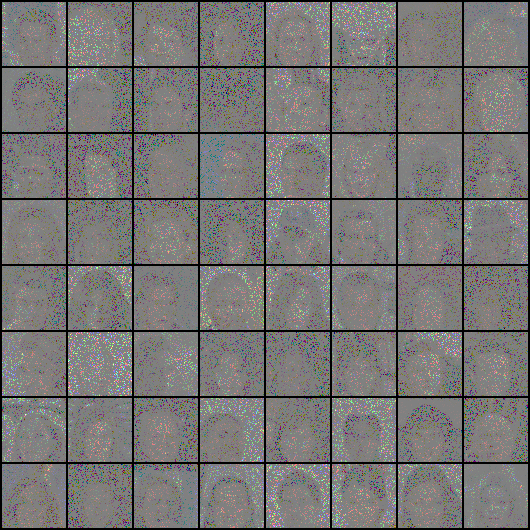
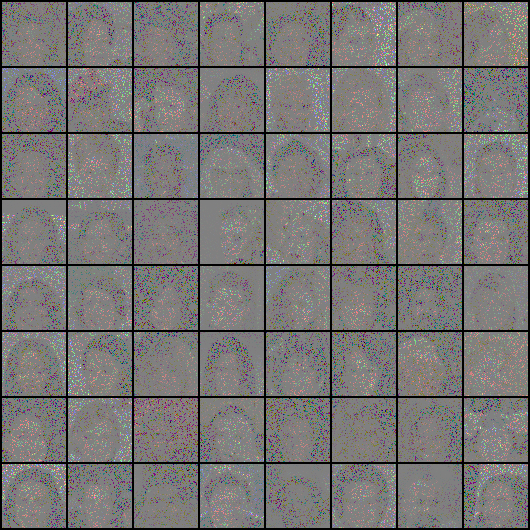
ok

diff --git a/train.py b/train.py
@@ -7,74 +7,87 @@ from tqdm import tqdm
 from dataset import *
 
 
-def train(netG, netD, noise_module, optimizerD, optimizerG, dataloader, device, file, epoch):
+def train(netG, netD, noise_module, optimizerD, optimizerG, dataloader, device, file, epoch, alpha):
     print(file)
     save_net(file, netG, netD)
     sauvegarde_init(file)
     netG.train()
     netD.train()
     cpt = 0
-    dTrue, dFalse, mse, ref = [], [], [], []
+    dTrue, dFalse, mse = [0], [0], [0]
     turn = True
-
+    alpha = 0
     bar_epoch = tqdm(range(epoch))
     bar_data = tqdm(range(len(dataloader)))
     for _ in bar_epoch:
-        for i, (x, xb) in zip(bar_data, dataloader):
+        for i, (ref, y) in zip(bar_data, dataloader):
             if turn:
-                save_xb = xb
+                save_xb = y
                 print_img(save_xb, 'image_de_base_bruit', file)
-                print_img(x, 'image_de_base_sans_bruit', file)
+                print_img(ref, 'image_de_base_sans_bruit', file)
                 turn = False
                 continue
 
+            real_label = torch.FloatTensor(ref.size(0)).fill_(.9).to(device)
+            fake_label = torch.FloatTensor(ref.size(0)).fill_(.1).to(device)
 
-            real_label = torch.FloatTensor(x.size(0)).fill_(.9).to(device)
-            fake_label = torch.FloatTensor(x.size(0)).fill_(.1).to(device)
+            ref = ref.to(device)
+            y = y.to(device)
 
-            xref = noise_module(x).to(device)
-            x2 = netG(xref).to(device)
-            xb2 = noise_module(x2).to(device)
-            x = x.to(device)
-            xb = xb.to(device)
+            if i % 2 == 0:
+                ################
+                # train D
+                ################
+                optimizerD.zero_grad()
 
-            # train D
-            optimizerD.zero_grad()
+                # avec de vrais labels
+                outputTrue = netD(y)
+                lossDT = F.binary_cross_entropy_with_logits(outputTrue, real_label)
 
-            # avec de vrais labels
-            outputTrue = netD(xb)
-            lossDT = F.binary_cross_entropy_with_logits(outputTrue, real_label)
+                # avec de faux labels
+                x_hat = netG(y).detach()
+                y_hat = noise_module(x_hat)
+                outputFalse = netD(y_hat)
+                lossDF = F.binary_cross_entropy_with_logits(outputFalse, fake_label)
+                (lossDF + lossDT).backward()
+                optimizerD.step()
 
-            # avec de faux labels
-            fake = noise_module(netG(xb))
-            outputFalse = netD(fake)
-            lossDF = F.binary_cross_entropy_with_logits(outputFalse, fake_label)
-            (lossDF + lossDT).backward()
-            optimizerD.step()
+                dTrue.append(torch.sigmoid(outputTrue).data.mean())
+                dFalse.append(torch.sigmoid(outputFalse).data.mean())
+                bar_epoch.set_postfix({"D(x)": np.array(dTrue).mean(), "D(G(x))": np.array(dFalse).mean()})
 
-            # train G
-            optimizerG.zero_grad()
-            outputG = noise_module(netG(xb))
-            outputDbruit = netD(outputG)
-            lossBruit = F.binary_cross_entropy_with_logits(outputDbruit, real_label)
+            else:
+                #############
+                # train G
+                #############
+                optimizerG.zero_grad()
 
-            outputMSE = noise_module(netG(xb2))
-            lossSupervise = F.mse_loss(outputMSE, noise_module(x2))
+                # improve G with Discriminator
+                x_hat = netG(y)
+                y_hat = noise_module(x_hat)
+                outputDbruit = netD(y_hat)
+                lossBruit = F.binary_cross_entropy_with_logits(outputDbruit, real_label)
 
-            (lossBruit+lossSupervise).backward()
-            optimizerG.step()
+                # improve G with MSE
+                x_tilde = netG(y_hat)
+                y_tilde = noise_module(x_tilde, pretrain=True)
 
-            #test
-            dTrue.append(torch.sigmoid(outputTrue).data.mean())
-            dFalse.append(torch.sigmoid(outputFalse).data.mean())
-            mse.append(F.mse_loss(netG(xb).detach(), x))
+                lossSupervise = F.mse_loss(y_hat, y_tilde)
 
-            bar_epoch.set_postfix({"D(x)": np.array(dTrue).mean(), "D(G(x))": np.array(dFalse).mean()})
-            bar_data.set_postfix({"qual": np.array(mse).mean()})
+                (lossBruit + alpha * lossSupervise).backward()
+                optimizerG.step()
+
+            #print
+            mse.append(F.mse_loss(x_hat, ref))
+            bar_data.set_postfix({"qual": np.array(mse).mean(), "cpt:": cpt})
 
             sauvegarde(file, np.array(dTrue).mean(), np.array(dFalse).mean(), np.array(mse).mean())
+
+            if i % 100 == 0 and i != 0:
+                alpha += 0.01
+                alpha = min(alpha, 2)
 
             if i % 250 == 1:
                 printG(save_xb, cpt, netG, file)
                 cpt += 1
-                dTrue, dFalse, mse, ref = [], [], [], []
+                dTrue, dFalse, mse, ref = [0], [0], [0], [0]

diff --git a/__main__.py b/__main__.py
@@ -3,6 +3,7 @@ import torch.optim as optim
 import argparse
 import torchvision.transforms as transforms
 import sys; sys.path.append('./network')
+from torch.utils.data.sampler import SubsetRandomSampler
 from SAGAN import CNetG, CNetD
 from noise import BlockPixel, BlockPatch
 from utils import *
@@ -15,14 +16,14 @@ parser = argparse.ArgumentParser()
 parser.add_argument('--epoch', type=int, default=25, help="nb iterations for training")
 parser.add_argument('--ndf', type=int, default=32, help="Base size of feature maps in discriminator")
 parser.add_argument('--ngf', type=int, default=32, help="Base size of feature maps in generator")
-parser.add_argument('--lrD', type=float, default=0.0004, help="Learning rate for the discriminator")
-parser.add_argument('--lrG', type=float, default=0.0001, help="Learning rate for the generator")
+parser.add_argument('--lrD', type=float, default=0.0001, help="Learning rate for the discriminator")
+parser.add_argument('--lrG', type=float, default=0.0004, help="Learning rate for the generator")
 parser.add_argument('--batch_size', type=int, default=64, help="Number of image per batch")
+parser.add_argument('--alpha', type=float, default=2.0, help="alpha")
 parser.add_argument('--save_file', type=str, default='./log/base', help="root where save result")
 parser.add_argument('--load_file', type=str, default='/home/victor/dataset/img_align_celeba', help="root where load dataset")
 parser.add_argument('--param', type=float, default=None, help="params for noise")
 opt = parser.parse_args()
-print(opt)
 sauvegarde_arg(opt.save_file, opt)
 
 ###############
@@ -33,8 +34,8 @@ sauvegarde_arg(opt.save_file, opt)
 device = torch.device("cuda:0" if torch.cuda.is_available() else "cpu")
 netG = CNetG(opt.ngf).to(device)
 netD = CNetD(opt.ndf).to(device)
-optimizerG = optim.Adam(netG.parameters(), opt.lrG, betas=(0.5, 0.999))
-optimizerD = optim.Adam(netD.parameters(), opt.lrD, betas=(0.5, 0.999))
+optimizerG = optim.Adam(netG.parameters(), opt.lrG, betas=(0, 0.9))
+optimizerD = optim.Adam(netD.parameters(), opt.lrD, betas=(0, 0.9))
 noise_module = BlockPixel(opt.param)
 
 ###########
@@ -47,9 +48,29 @@ dataset = CelebADatasetNoise(opt.load_file,
                                                   transforms.Normalize((0.5, 0.5, 0.5), (0.5, 0.5, 0.5)),
                                                  ]))
 
-dataloader = torch.utils.data.DataLoader(dataset, batch_size=64, shuffle=True, drop_last=True)
+size_train = int(len(dataset)*0.8)
+size_val = int(len(dataset)*0.1)
 
+indices_train = [i for i in range(0,size_train)]
+indices_test = [i for i in range(size_train, len(dataset))]
+indices_val = [indices_train[i] for i in range(0, size_val)]
+indices_train = [i for i in range(indices_val[-1]+1, len(indices_train))]
+
+train_loader = torch.utils.data.DataLoader(dataset,
+                                           batch_size=64,
+                                           sampler=SubsetRandomSampler(indices_train),
+                                           drop_last=True)
+
+test_loader = torch.utils.data.DataLoader(dataset,
+                                          batch_size=64,
+                                          sampler=SubsetRandomSampler(indices_test),
+                                          drop_last=True)
+
+val_loader = torch.utils.data.DataLoader(dataset,
+                                         batch_size=64,
+                                         sampler=SubsetRandomSampler(indices_val),
+                                         drop_last=True)
 ############
 # Train
 ############
-train(netG, netD, noise_module, optimizerD, optimizerG, dataloader, device, opt.save_file, opt.epoch)
+train(netG, netD, noise_module, optimizerD, optimizerG, train_loader, device, opt.save_file, opt.epoch, opt.alpha)

diff --git a/noise.py b/noise.py
@@ -10,13 +10,16 @@ class BlockPixel(nn.Module):
         self.param = param
         self.r = None
 
-    def forward(self, x):
+    def forward(self, x, pretrain=False):
+        if pretrain:
+            return self.r * x
+
         self.r = torch.rand(x.size())
         self.r = np.where(self.r < self.param, 0, 1)
-        #if isinstance(x, torch.cuda.FloatTensor):
-        #    self.r = torch.tensor(self.r, device='cuda', dtype=torch.float32, requires_grad=False)
-        #else:
-        self.r = torch.tensor(self.r, device='cpu', dtype=torch.float32, requires_grad=False)
+        if isinstance(x, torch.cuda.FloatTensor):
+            self.r = torch.tensor(self.r, device='cuda', dtype=torch.float32, requires_grad=False)
+        else:
+            self.r = torch.tensor(self.r, device='cpu', dtype=torch.float32, requires_grad=False)
 
         return self.r * x
 
